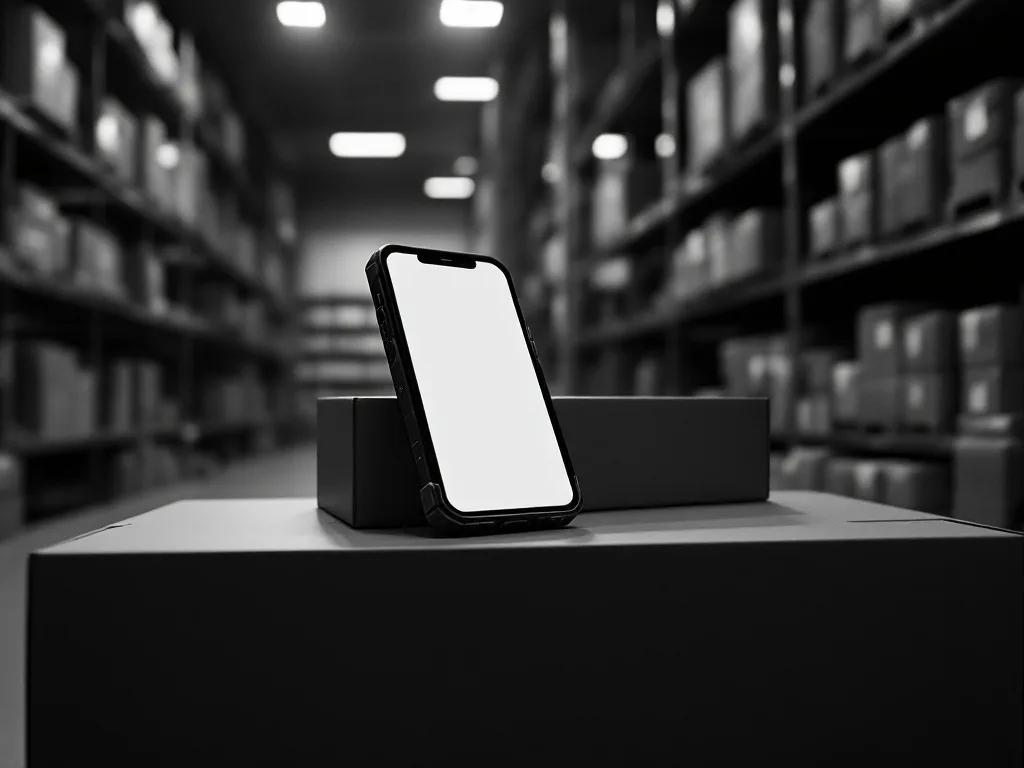
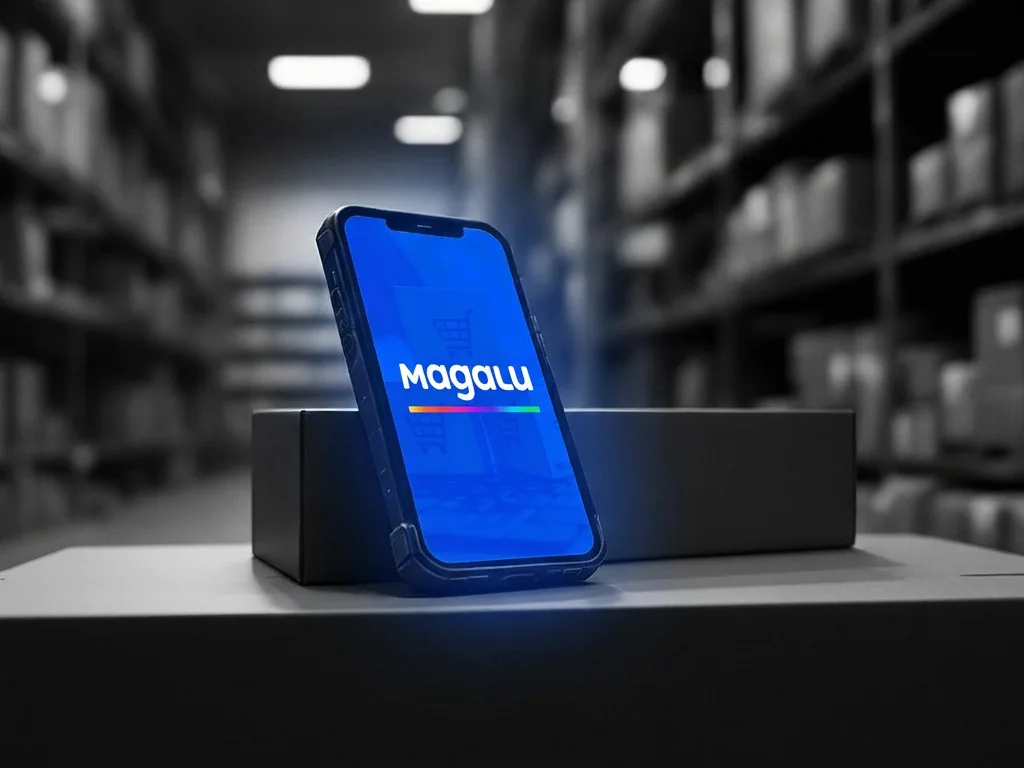
feat: real screens on the Pratio and Magalu renders, drop North Clinic
The POS terminal and the stock-clerk phone now show the actual product
screenshots composited onto the rendered devices (fal.ai nano-banana
edit), so the grid stays one visual system while keeping proof of the
real software. North Clinic removed from the featured list; grid is
now six tiles (four Atto cases + Magalu + Pratio).

diff --git a/src/features/projects/data/projects.static.ts b/src/features/projects/data/projects.static.ts
@@ -68,49 +68,6 @@ export const projectsData = [
     integrations: ['WhatsApp', 'Pix'],
   },
   {
-    id: 1,
-    slug: 'north-clinic',
-    i18nKey: 'northClinic',
-    type: 'web',
-    featured: true,
-    image: '/projects/render-north.webp',
-    demo: 'https://northclinic.com.br',
-    github: null,
-    role: 'fullstack',
-    year: 2022,
-    company: 'Esperto Sistemas',
-    category: 'saas',
-    technologies: [
-      'JavaScript',
-      'jQuery',
-      'FullCalendar',
-      'Chart.js',
-      'DataTables.js',
-      'Go',
-      'Gin',
-      'GORM',
-      'REST API',
-      'PostgreSQL',
-      'Docker',
-      'GitHub Actions',
-      'Sentry',
-      'Socket.io',
-      'WebSockets',
-      'Redis',
-    ],
-    highlights: [
-      'agenda',
-      'clientManagement',
-      'sales',
-      'financial',
-      'inventory',
-      'leads',
-      'reports',
-      'dashboard',
-    ],
-    integrations: ['WhatsApp', 'ZapClinic', 'Kommo', 'Belle Software', 'N8N'],
-  },
-  {
     id: 2,
     slug: 'mobile-estoquista',
     i18nKey: 'mobileEstoquista',
